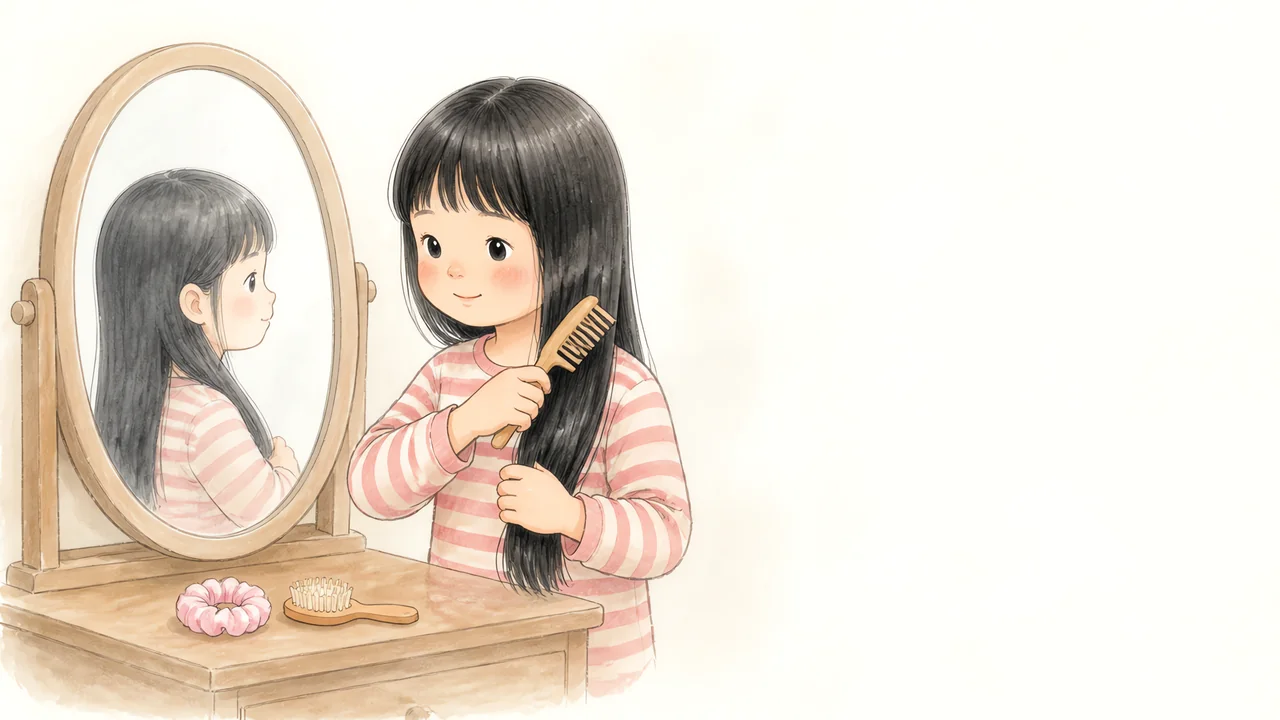
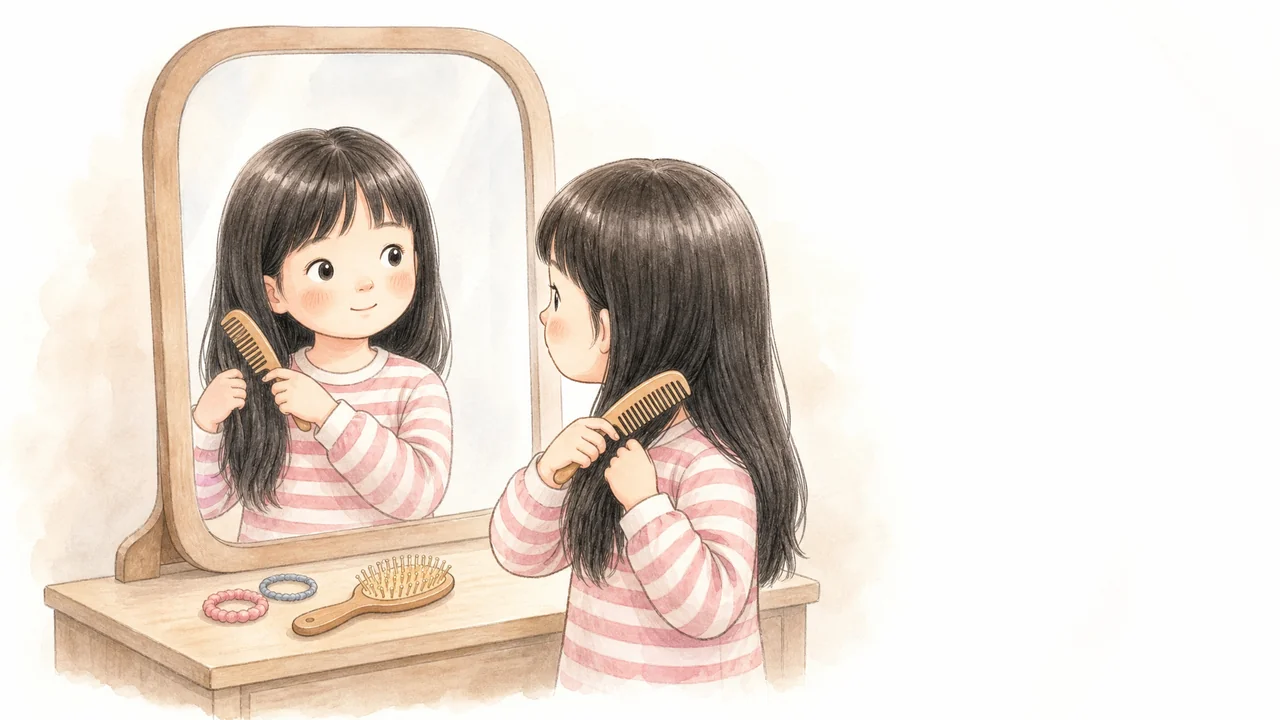
fix(self-care): 封面两处终审修正——梳头镜像准确、整理床铺不再穿模
- COMB_HAIR_001：保留梳妆镜，重画为同一人镜像对称（gpt-4o 镜像核验通过）
- MAKE_BED_001：人物站床尾地面拉被单（原图站床上穿模已修）
- 均 1280×720 webp q85 替换

diff --git a/.continue-here.md b/.continue-here.md
@@ -14,6 +14,10 @@
 - 已完成（v2 新流程——参考图构图 + wave1 平涂 + 手部/物品主体规避审核）：
   - 穿袜子 7→4 步（找到分左右/撑袜口叠缩/套脚尖袜跟包脚跟/拉平检查）：4 张 webp 入库 WEAR_SOCKS_001/1-4.webp（b8da62c）
   - 关键经验：参考"卡通粗描边图"构图 + 平涂风格 + 手部/物品主体 → 零安全拦截；脚部/下装局部描述必被拦（step2 曾 failed）
+- 已完成（31 张任务卡片封面统一重制，1eb42f4）：
+  - 风格：温馨儿童绘本（柔和水彩渲染+细致彩色铅笔+棕色纤细线条+温暖含蓄色调+简洁留白）
+  - 角色与步骤图一致（女生任务=红白条纹女孩/长黑发女孩；男孩=小乐及老库各系列角色），性别经 gpt-4o 全量判图
+  - 31 张 1280×720 webp q85 替换旧 *_cover.jpg（协议层 jpg→webp 回落）；inventory 零改动
 - 用户放弃（不再折腾）：脱上衣 TAKE_OFF_SHIRT_001——v2 4 步（撑领口/脱袖/衣摆上提过头/翻正拿好）生成 4 张零拦截但用户终审全部否定，未入库（工作区干净，无残留改动）；整理床铺（生成图/视频分镜太离谱）同样搁置
 - 验证：scripts/tests/self-care-task-seed.test.mjs 9/9 通过；npm run type-check exit 0
 
